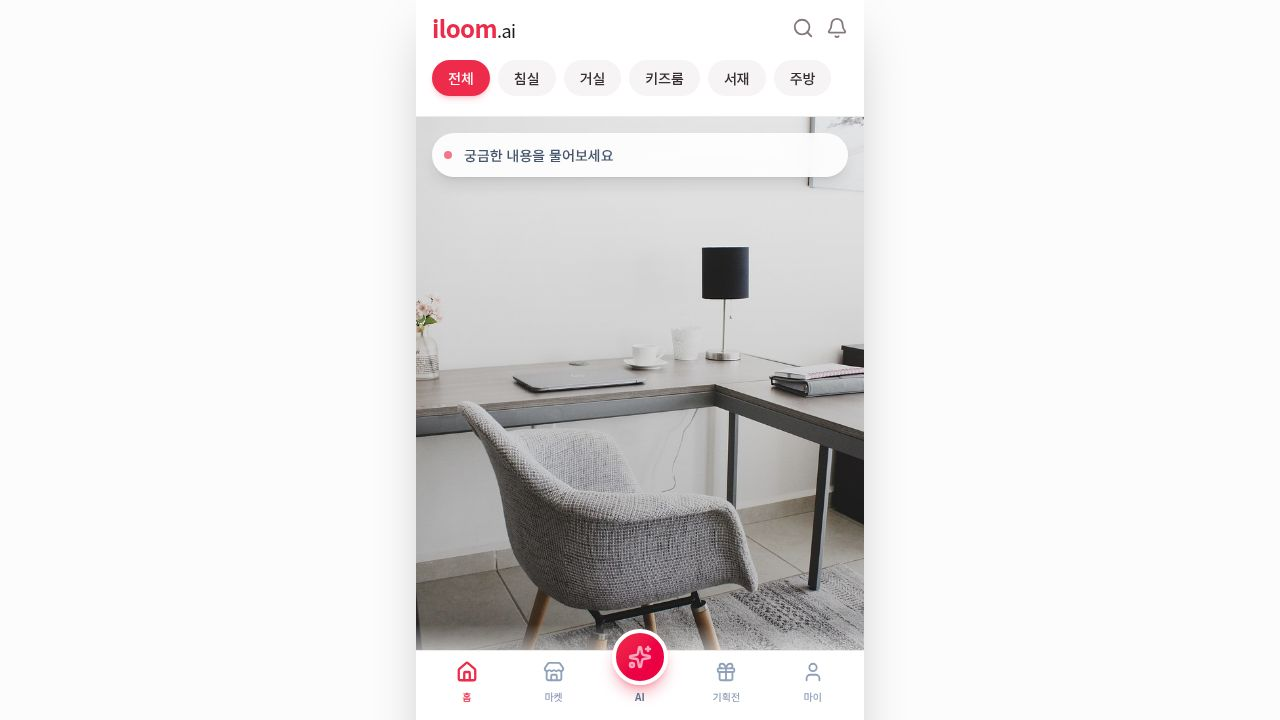
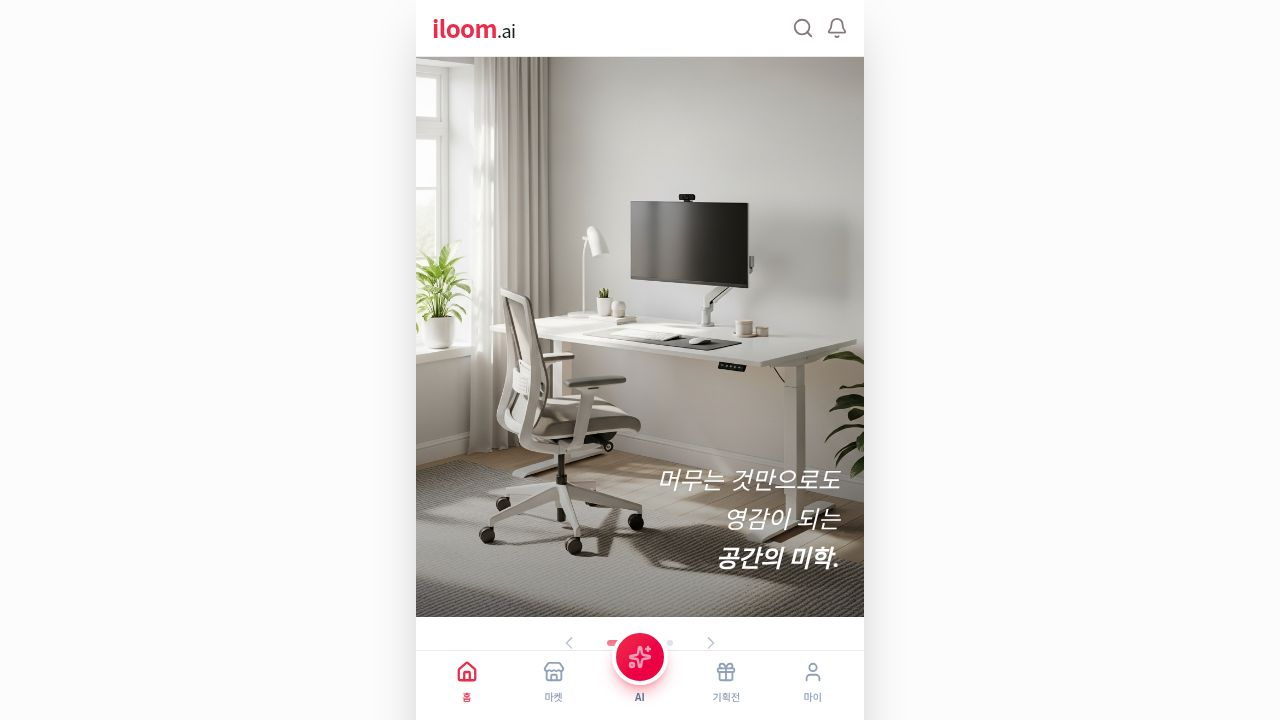
Update section title to AI Curator
Change the AI Budget Curator title to AI Curator.

Replit-Commit-Author: Agent
Replit-Commit-Session-Id: 17ecb11c-ba09-42da-b0ff-2c06157583db
Replit-Commit-Checkpoint-Type: full_checkpoint
Replit-Commit-Event-Id: 4707858e-8db2-4d88-b7ed-4e9c91f97fbe
Replit-Commit-Screenshot-Url: https://storage.googleapis.com/screenshot-production-us-central1/64474882-dd9c-43dd-9227-ce4bdb1ed1da/17ecb11c-ba09-42da-b0ff-2c06157583db/CSdcdQS
Replit-Helium-Checkpoint-Created: true

Changed region(s): [[0.3125, 0.0611, 0.6875, 0.9167]]

diff --git a/client/src/pages/Home.tsx b/client/src/pages/Home.tsx
@@ -134,7 +134,7 @@ export default function Home() {
              <div>
                 <div className="flex items-center gap-1.5 mb-1">
                    <Sparkles size={14} className="text-primary" />
-                   <span className="text-xs font-bold text-primary uppercase tracking-wider">AI Budget Curator</span>
+                   <span className="text-xs font-bold text-primary uppercase tracking-wider">AI Curator</span>
                 </div>
                 <h3 className="font-serif text-xl text-slate-800">합리적인 <span className="italic">취향</span>의 발견</h3>
              </div>
